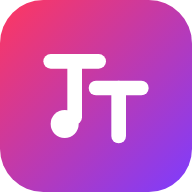
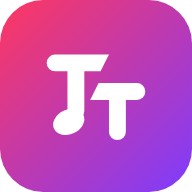
Add files via upload

Changed region(s): [[0.4062, 0.3438, 0.7812, 0.75], [0.2188, 0.2812, 0.5625, 0.7188]]

diff --git a/app.js b/app.js
@@ -8,11 +8,11 @@
 const TITLE = 'Tune Tune';
 const APP = 'TuneTune';
 const VER = '1.1';
-const LOGO_MARK = '<g fill="none" stroke="currentColor" stroke-linecap="round" stroke-linejoin="round"><path class="lg-a1" d="M16 24H52" stroke-width="11"/><path class="lg-a2" d="M34 24V66" stroke-width="11"/><path class="lg-b1" d="M50 44H84" stroke-width="11"/><path class="lg-b2" d="M67 44V80" stroke-width="11"/></g><circle class="lg-n" cx="26.5" cy="71" r="10.5" fill="currentColor"/>';
+const LOGO_MARK = '<g fill="currentColor"><path class="lg-a1" d="M18.5 18H60L53.5 31H18.5a6.5 6.5 0 0 1 0-13Z"/><rect class="lg-a2" x="28" y="24" width="13" height="44" rx="6.5"/><path class="lg-b1" d="M52 40H81.5a6.5 6.5 0 0 1 0 13H45.5Z"/><rect class="lg-b2" x="60" y="46" width="13" height="38" rx="6.5"/><g class="lg-n"><ellipse cx="29" cy="70" rx="12.5" ry="9.5" transform="rotate(-25 29 70)"/></g></g>';
 const logoSvg = (cls = '') => `<svg class="tt-logo ${cls}" viewBox="0 0 100 100" aria-hidden="true">${LOGO_MARK}</svg>`;
 // ✏ OPTIONAL — paste your music-server address between the quotes (e.g. 'https://tunetune.yourname.workers.dev')
 // so EVERYONE who opens your website gets clean, ad-free JioSaavn audio with no setup.
-const BUILT_IN_SERVER = 'https://tunetune.harshavarthan-e.workers.dev';
+const BUILT_IN_SERVER = '';
 // ✏ Links shown in Settings → More from H24 Creationz
 const PRODUCTS_URL = 'https://harshavarthanep.github.io/products/';
 const GITHUB_URL = 'https://github.com/harshavarthanep';
@@ -175,17 +175,18 @@ const I = {
   chevL: svg(P('M15 5l-7 7 7 7', 2.6)),
   chevR: svg(P('M9 5l7 7-7 7', 2.2)),
   plus: svg(P('M12 5v14M5 12h14', 2.4)),
+  pladd: svg(P('M4 6.5h11M4 11.5h11M4 16.5h7M18 13v7M14.5 16.5h7', 2)),
   minus: svg(P('M12 21a9 9 0 1 0 0-18 9 9 0 0 0 0 18zM8 12h8', 1.9)),
   download: svg(P('M12 4v11M7.5 10.5L12 15l4.5-4.5M5 19.5h14')),
   dlok: svg('<circle cx="12" cy="12" r="10"/><path d="M12 7v9M8 12.5l4 4 4-4" fill="none" stroke="#fff" stroke-width="2.2" stroke-linecap="round" stroke-linejoin="round"/>'),
   queue: svg(P('M4 6h16M4 11h16M4 16h9') + '<path d="M16 14v7l5-3.5z"/>'),
   playNext: svg(P('M4 6h10M4 11h10M4 16h6') + '<path d="M15 13v7l5.5-3.5z"/>'),
   lyrics: svg(P('M4 5h16a1 1 0 0 1 1 1v10a1 1 0 0 1-1 1H9.5L5 20.5V17H4a1 1 0 0 1-1-1V6a1 1 0 0 1 1-1zM8 9.5h8M8 12.5h5', 1.9)),
-  timer: svg(P('M12 21a8 8 0 1 0 0-16 8 8 0 0 0 0 16zM12 9v4.5l2.5 1.5M9.5 2.5h5')),
+  timer: `<svg class="ic tmr" viewBox="0 0 24 24" fill="none" stroke="currentColor" stroke-width="2" stroke-linecap="round" stroke-linejoin="round" aria-hidden="true"><circle cx="12" cy="13.5" r="8"/><path d="M9.5 2.8h5M12 2.8v2.7M18.6 6.9l1.2-1.2"/><path class="tm-hand" d="M12 13.5V9"/></svg>`,
   eq: svg(P('M5 3v18M12 3v18M19 3v18', 1.5) + '<circle cx="5" cy="15" r="2.6"/><circle cx="12" cy="8" r="2.6"/><circle cx="19" cy="13" r="2.6"/>'),
   share: svg(P('M12 3v12M8 7l4-4 4 4M7 10H6a1.5 1.5 0 0 0-1.5 1.5v8A1.5 1.5 0 0 0 6 21h12a1.5 1.5 0 0 0 1.5-1.5v-8A1.5 1.5 0 0 0 18 10h-1')),
   trash: svg(P('M4 7h16M9 7V4.5h6V7M6.5 7l1 13h9l1-13M10 11v5.5M14 11v5.5')),
-  gear: svg(P('M12 15.2a3.2 3.2 0 1 0 0-6.4 3.2 3.2 0 0 0 0 6.4z', 1.8) + P('M19.4 13.5l1.6 1.2-2 3.4-1.9-.7a7.6 7.6 0 0 1-2 1.2l-.3 2h-3.9l-.3-2a7.6 7.6 0 0 1-2-1.2l-1.9.7-2-3.4 1.6-1.2a7.5 7.5 0 0 1 0-3l-1.6-1.2 2-3.4 1.9.7a7.6 7.6 0 0 1 2-1.2l.3-2h3.9l.3 2a7.6 7.6 0 0 1 2 1.2l1.9-.7 2 3.4-1.6 1.2a7.5 7.5 0 0 1 0 3z', 1.8)),
+  gear: `<svg class="ic" viewBox="0 0 24 24" fill="none" stroke="currentColor" stroke-width="1.8" stroke-linejoin="round" aria-hidden="true"><path d="M10.3 2.6h3.4l.5 2.6a7.3 7.3 0 0 1 1.9 1.1l2.5-.9 1.7 2.9-2 1.7a7.4 7.4 0 0 1 0 2.2l2 1.7-1.7 2.9-2.5-.9a7.3 7.3 0 0 1-1.9 1.1l-.5 2.6h-3.4l-.5-2.6a7.3 7.3 0 0 1-1.9-1.1l-2.5.9-1.7-2.9 2-1.7a7.4 7.4 0 0 1 0-2.2l-2-1.7 1.7-2.9 2.5.9a7.3 7.3 0 0 1 1.9-1.1z"/><circle cx="12" cy="12" r="3"/></svg>`,
   music: svg(P('M9 18V6l11-2v12') + '<circle cx="6.5" cy="18" r="2.6"/><circle cx="17.5" cy="16" r="2.6"/>'),
   x: svg(P('M6 6l12 12M18 6L6 18', 2.6)),
   folder: svg(P('M3.5 7V18a1.5 1.5 0 0 0 1.5 1.5h14a1.5 1.5 0 0 0 1.5-1.5V9a1.5 1.5 0 0 0-1.5-1.5h-7L10 5H5A1.5 1.5 0 0 0 3.5 6.5z')),
@@ -1504,8 +1505,7 @@ function clickSound(kind) {
   } catch (e) { }
 }
 function feedback(kind = 'tap') { if (S.settings.haptics !== false) Haptic.tap(kind === 'done' ? 18 : kind === 'tick' ? 4 : 9); clickSound(kind); }
-let crownPos = new WeakMap(), crownAt = 0, crownEnd = 0;
-document.addEventListener('scroll', e => { if (!S.settings.crown) return; const el = e.target === document ? document.scrollingElement : e.target; if (!el || !el.classList) return; clearTimeout(crownEnd); crownEnd = setTimeout(() => { el.classList.remove('land'); void el.offsetWidth; el.classList.add('land'); feedback('tick'); setTimeout(() => el.classList.remove('land'), 420); }, 140); }, { passive: true, capture: true });
+let crownPos = new WeakMap(), crownAt = 0;
 document.addEventListener('visibilitychange', () => { if (!document.hidden && fbCtx && fbCtx.state !== 'running') fbCtx.resume().catch(() => { fbCtx = null; }); });
 document.addEventListener('scroll', e => {
   if (!S.settings.crown) return; const el = e.target === document ? document.scrollingElement : e.target; if (!el || !el.classList) return;
@@ -1633,6 +1633,8 @@ const Player = {
       this.loading = false; this.resumeTries = 0; this.failRun = 0; this.wantPlay = true; this.lastProgress = Date.now(); if (this.intrAt) { this.stopIntr(); }
       const hr = new Date().getHours();
       if ((hr >= 23 || hr < 4) && !this.sleepAt && !this.sleepEnd && S.lastNightTip !== dayKey() && S.settings.nightTip !== false && !document.hidden) { S.lastNightTip = dayKey(); save(); setTimeout(() => toast('Late night? Stop the music in 30 minutes', { label: 'Set', ms: 6000, fn: () => { try { Player.sleep(30); UI.timerBtn(); toast('Sleep timer: 30 minutes'); } catch (e) { } } }), 2500); }
+      if (this.seekWant != null && this.el !== Embed && Math.abs((this.el.currentTime || 0) - this.seekWant) > 1.5) { try { this.el.currentTime = this.seekWant; } catch (e) { } }
+      this.seekWant = null;
       try { this._seekOn = undefined; this.session(); this.seekBtns(!!(t && t.source === 'podcast')); } catch (e) { }
       if (t) { clearTimeout(this.metaT); this.metaT = setTimeout(() => { if (this.cur === t) { try { this.meta(t); } catch (e) { } } }, 600); }
       try { if ('mediaSession' in navigator) navigator.mediaSession.playbackState = 'playing'; } catch (e) { }
@@ -1856,7 +1858,7 @@ const Player = {
     }
     if (!src) return this.skipAfterFail(t);
     this.isBlob = blob;
-    const wantFx = !!S.settings.eqOn || Party.react();
+    const wantFx = (!!S.settings.eqOn && !IS_IOS) || Party.react();
     if (!blob && wantFx && (S.settings.proxy || SITE.server) && /saavncdn\.com/.test(src)) src = JSA.relays()[0].wrap(src);
     let host = ''; try { host = new URL(src, location.href).host; } catch (e) { }
     const fx = !!(wantFx && !t.live && this.via !== 'preview' && (blob || !this.badCors.has(host)));
@@ -1981,7 +1983,9 @@ const Player = {
   seek(s) {
     const t = this.cur; if (!t || t.live) return;
     if (!this.loaded) { this.resumeAt = Math.max(0, s); return this.load(true, this.resumeAt, true); }
-    const a = this.el; if (isFinite(a.duration)) a.currentTime = clamp(s, 0, Math.max(0, a.duration - 0.25));
+    const a = this.el; const to = isFinite(a.duration) ? clamp(s, 0, Math.max(0, a.duration - 0.25)) : Math.max(0, s);
+    this.seekWant = to; this.resumeAt = to; try { a.currentTime = to; } catch (e) { }
+    if (t.source === 'podcast') { try { (S.podProg || (S.podProg = {}))[t.id] = Math.floor(to); } catch (e) { } }
     UI.time();
   },
   playList(list, idx = 0, from = '', shuffle = null) {
@@ -2158,7 +2162,8 @@ const Player = {
     const a = this.el; this.stopIntr && this.stopIntr();
     if (!this.cur) return;
     if (!this.loaded || this.waitOnline) return this.toggle();
-    if (a !== Embed && (a.error || !a.currentSrc || a.networkState === 3)) return this.load(true, a.currentTime || this.resumeAt || 0, true);
+    if (a !== Embed && (a.error || !a.currentSrc || a.networkState === 3)) return this.load(true, this.seekWant != null ? this.seekWant : (a.currentTime || this.resumeAt || 0), true);
+    if (this.seekWant != null && a !== Embed) { try { a.currentTime = this.seekWant; } catch (e) { } }
     this.wantPlay = true; this.userPaused = false;
     try { const p = a.play(); if (p && p.catch) p.catch(err => { if (!(err && err.name === 'NotAllowedError') && this.cur) this.load(true, a.currentTime || this.resumeAt || 0, true); }); } catch (e) { }
     if (this.ctx && this.ctx.state !== 'running') this.ctx.resume().catch(() => { });
@@ -2264,7 +2269,9 @@ const UI = {
     const et = $('#np-eqt'); if (et) { const on = S.settings.eqOn && !IS_IOS && Player.cur && !Player.cur.live; const txt = on ? eqName() : ''; if (et.dataset.t !== txt + (Player.el === Player.fx)) { et.dataset.t = txt + (Player.el === Player.fx); et.innerHTML = on ? `${I.eq}${esc(txt)}` : ''; et.classList.toggle('na', on && Player.el !== Player.fx); et.title = on && Player.el !== Player.fx ? 'Equalizer isn’t available for this song' : 'Equalizer: ' + txt; } }
     const aq = $('#aqbox'); if (aq) { const k = (Player.cur && Player.cur.id) + '|' + Player.quality + '|' + Player.via + '|' + S.settings.eqOn; if (aq.dataset.k !== k) { aq.dataset.k = k; setHTML(aq, aqInner()); } }
   },
+  slp() { const sp = document.getElementById('np-slp'); if (!sp) return; const on = !!(Player.sleepAt || Player.sleepEnd); sp.classList.toggle('on', on); const b = document.getElementById('np-btimer'); if (b) b.classList.toggle('on', on); if (on) { const left = Player.sleepEnd ? 'End of song' : fmt(Math.max(0, (Player.sleepAt - Date.now()) / 1000)); const lb = sp.querySelector('span'); if (lb && lb.textContent !== left) lb.textContent = left; } },
   time() {
+    this.slp();
     const a = Player.el, t = Player.cur; if (!t) return;
     const cur = Player.loaded ? a.currentTime : Player.resumeAt;
     const dur = Player.loaded && isFinite(a.duration) && a.duration ? a.duration : (t.duration || 0);
@@ -2456,8 +2463,8 @@ const Party = {
       }
     } else if (style === 'waves') {
       for (let k = 0; k < 6; k++) {
-        g.beginPath(); const amp = H * (0.035 + L.mid * 0.22 + this.kick * 0.03) * (1 - k * 0.1), base = H * (0.22 + k * 0.12);
-        for (let x = 0; x <= W; x += 5) { const y = base + Math.sin(x / W * Math.PI * (2 + k * 0.6) + tt * (1.2 + k * 0.3)) * amp + Math.sin(x / W * 11 + tt * 2.4) * amp * (0.2 + L.high * 0.5); x ? g.lineTo(x, y) : g.moveTo(x, y); }
+        g.beginPath(); const amp = H * (0.04 + L.mid * 0.12 + this.kick * 0.035) * (1 - k * 0.08), base = H * (0.22 + k * 0.12);
+        for (let x = 0; x <= W; x += 4) { const u = x / W; const y = base + Math.sin(u * Math.PI * (1.6 + k * 0.35) + tt * (0.9 + k * 0.22)) * amp * (0.75 + 0.25 * Math.sin(u * Math.PI)); x ? g.lineTo(x, y) : g.moveTo(x, y); }
         g.strokeStyle = hsl(this.hue + k * 40, 95, 60, 0.35 + L.bass * 0.4); g.lineWidth = R * (0.004 + L.bass * 0.01); g.stroke();
       }
     } else if (style === 'lasers') {
@@ -2527,7 +2534,7 @@ function buildShell() {
     <div class="np-meta"><div class="np-tt"><div class="np-t" id="np-t"></div><span class="dlbadge" id="np-dl">${I.dlok}</span><div class="np-a" id="np-a" data-a="npartist"></div></div>
       <button class="np-ib" id="np-party" data-a="party" aria-label="Party Mode">${I.disco}</button><button class="np-ib" id="np-share" data-a="npshare" aria-label="Share">${I.share}</button><button class="np-ib" id="np-like" data-a="nplike" aria-label="Favorite">${I.heart}</button></div>
     <div class="scrub"><input class="rng" id="np-seek" type="range" min="0" max="1000" step="1" value="0" aria-label="Seek">
-      <div class="times"><span id="np-cur">0:00</span><span class="livepill">● LIVE</span><span class="qbadge" id="np-qb" data-a="aq" role="button" tabindex="0" aria-label="Audio quality"></span><button class="eqtag" id="np-eqt" data-a="eq" aria-label="Equalizer"></button><button class="dlpill" id="np-dlq" data-a="dlinfo" aria-label="Offline status">${I.offline}<span></span></button><button class="slpill" id="np-slp" data-a="sleep" aria-label="Sleep timer">${I.timer}<span></span></button><span id="np-rem">-0:00</span></div></div>
+      <div class="times"><span id="np-cur">0:00</span><span class="livepill">● LIVE</span><span class="qbadge" id="np-qb" data-a="aq" role="button" tabindex="0" aria-label="Audio quality"></span><button class="slpill" id="np-slp" data-a="sleep" aria-label="Sleep timer">${I.timer}<span></span></button><button class="eqtag" id="np-eqt" data-a="eq" aria-label="Equalizer"></button><button class="dlpill" id="np-dlq" data-a="dlinfo" aria-label="Offline status">${I.offline}<span></span></button><span id="np-rem">-0:00</span></div></div>
     <div class="ctrl">
       <button class="np-ib c-s" id="np-shuf" data-a="shuffle" aria-label="Shuffle">${I.shuffle}</button>
       <button class="np-ib c-k" data-a="skipb" aria-label="Skip back">${skipIcon(S.settings.podBack || 15, true)}</button>
@@ -2681,7 +2688,7 @@ function renderQueue() {
       <button class="qchip ${Player.shuffle ? 'on' : ''}" data-a="shuffle">${I.shuffle}Shuffle</button>
       <button class="qchip ${Player.repeat !== 'off' ? 'on' : ''}" data-a="repeat">${Player.repeat === 'one' ? I.repeat1 : I.repeat}Repeat</button>
       <button class="qchip ${S.settings.autoplay ? 'on' : ''}" data-a="autoplay">${I.infinity}Autoplay</button></div>
-    <div class="q-h"><div><b>Playing Next</b><small>${up.length ? plural(up.length, 'song') : 'Nothing queued'}${Player.from ? ' from ' + esc(Player.from) : ''}</small></div>${up.length ? `<div class="qbtns"><button class="qib" data-a="qsave" aria-label="Save as playlist" title="Save as playlist">${I.plus}</button><button class="qib" data-a="qclearask" aria-label="Clear Playing Next" title="Clear Playing Next">${I.trash}</button></div>` : ''}</div>
+    <div class="q-h"><div><b>Playing Next</b><small>${up.length ? plural(up.length, 'song') : 'Nothing queued'}${Player.from ? ' from ' + esc(Player.from) : ''}</small></div>${up.length ? `<div class="qbtns"><button class="qib" data-a="qsave" aria-label="Save as playlist" title="Save as playlist">${I.pladd}</button><button class="qib" data-a="qclearask" aria-label="Clear Playing Next" title="Clear Playing Next">${I.trash}</button></div>` : ''}</div>
     <div id="qlist">${up.map((t, k) => {
       const qi = Player.i + 1 + k;
       return `<div class="qrow qnext" data-q="${qi}"><img src="${esc(artOf(t))}" alt="" class="${t.live ? 'logo' : ''}" loading="lazy">
@@ -3050,7 +3057,7 @@ function langPicker(first) {
 const fmtDb = v => (v > 0 ? '+' : '') + (+v).toFixed(Number.isInteger(+v) ? 0 : 1);
 function eqStatus() {
   const s = S.settings;
-  if (IS_IOS && s.eqOn && Player.el === Player.fx) return ['ok', 'Active on this song. On iPhone the equalizer works while Tune Tune is open — music may pause when the screen locks.'];
+  if (IS_IOS) return ['off', 'iPhone and iPad mute sound processing when the screen locks, so the equalizer stays off there to keep music playing.'];
   if (!s.eqOn) return ['off', 'Turn it on to shape the sound.'];
   if (!Player.cur || !Player.loaded) return ['ok', 'Ready — it applies as soon as a song plays.'];
   if (Player.el === Embed) return ['warn', 'Not active on this song: it plays through YouTube’s player, which doesn’t allow sound changes.'];
@@ -3616,7 +3623,7 @@ function applyTheme() {
   const dark = s === 'dark' || (s === 'auto' && matchMedia('(prefers-color-scheme: dark)').matches);
   const r = document.documentElement; r.dataset.theme = dark ? 'dark' : 'light'; r.style.setProperty('--accent', S.settings.accent);
   const st = S.settings;
-  r.classList.toggle('still', !st.motion); r.classList.toggle('crown', !!st.crown); r.classList.toggle('nobg', !st.animBg); r.classList.toggle('nobadge', !st.badge);
+  r.classList.toggle('still', !st.motion); r.classList.toggle('nobg', !st.animBg); r.classList.toggle('nobadge', !st.badge);
   r.dataset.lyr = st.lyricsSize || 'm';
   r.style.setProperty('--zoom', String(+st.zoom || 1));
   const m = $('meta[name="theme-color"]'); if (m) m.setAttribute('content', dark ? '#000000' : '#ffffff');
@@ -3932,7 +3939,7 @@ async function quickPicks() {
 function renderHome(e, tok) {
   const stk = streak();
   const nm = (S.settings.name || '').trim();
-  let html = header('Home', { right: nbBtn('go', 'gear', 'Settings', 'data-v="settings"'), left: `<span class="home-logo">${logoSvg()}</span>` }) + `<p class="greet">${greeting()}${nm ? ', ' + esc(nm) : ''}${stk >= 2 ? ` <span class="streak" data-a="streakparty" role="button" tabindex="0" title="Days in a row you listened">🔥 ${stk}-day streak</span>` : ''}</p>`;
+  let html = header('Home', { right: nbBtn('go', 'gear', 'Settings', 'data-v="settings"'), left: `<span class="home-logo">${logoSvg()}</span>` }) + `<p class="greet">${greeting()}${nm ? ', ' + esc(nm) : ''}${stk >= 2 ? ` <span class="streak" data-a="streaktap" role="button" tabindex="0" title="Days in a row you listened">🔥 ${stk}-day streak</span>` : ''}</p>`;
   const standalone = matchMedia('(display-mode: standalone)').matches || navigator.standalone;
   if (!standalone && !S.noInstall && Object.keys(S.stats.plays || {}).length >= 3 && (deferredInstall || IS_IOS)) html += `<div class="nudge"><div class="nudge-ic">${I.music}</div><div class="nudge-t"><b>Get the Tune Tune app</b><span>${IS_IOS ? 'Tap Share, then “Add to Home Screen”' : 'Opens instantly and plays from your lock screen'}</span></div>${IS_IOS ? '' : '<button class="fb pri" data-a="install">Install</button>'}<button class="nudge-x" data-a="noinstall" aria-label="Dismiss">${I.x}</button></div>`;
   if (!navigator.onLine) {
@@ -3943,7 +3950,7 @@ function renderHome(e, tok) {
   }
   setTimeout(warmLangs, 2500);
   const sv = (S.cached || []).filter(t => S.settings.mixPods || t.source !== 'podcast');
-  if (S.settings.savedCard !== false && sv.length >= 3) html += `<div class="saved-card"><span class="sc-ic">${I.offline}</span><div class="sc-arts">${sv.slice(0, 3).map(t => `<img src="${esc(artOf(t))}" alt="">`).join('')}</div><div class="sc-t" data-a="go" data-v="coll" data-k="saved" role="button" tabindex="0"><b>Ready offline ›</b><span>Your last ${plural(sv.length, 'song')} — plays without internet</span></div><button class="np-ib" data-a="savedplay" aria-label="Play in order">${I.play}</button><button class="np-ib" data-a="savedshuf" aria-label="Shuffle">${I.shuffle}</button></div>`;
+  if (S.settings.savedCard !== false && sv.length >= 3) html += `<div class="saved-card"><div class="sc-arts">${sv.slice(0, 3).map(t => `<img src="${esc(artOf(t))}" alt="">`).join('')}</div><div class="sc-t" data-a="go" data-v="coll" data-k="saved" role="button" tabindex="0"><b>Ready offline ›</b><span>Your last ${plural(sv.length, 'song')} — plays without internet</span></div><button class="np-ib" data-a="savedplay" aria-label="Play in order">${I.play}</button><button class="np-ib" data-a="savedshuf" aria-label="Shuffle">${I.shuffle}</button></div>`;
   const sug = langSuggest(); if (sug) html += `<div class="lang-sug"><span>You’ve been listening to a lot of <b>${esc(sug)}</b> music</span><button class="fb pri" data-a="addlang" data-l="${esc(sug)}">Add ${esc(sug)}</button><button class="nudge-x" data-a="nolang" data-l="${esc(sug)}" aria-label="Dismiss">${I.x}</button></div>`;
   const langs = myLangs();
   html += `<div class="chips pg">${langs.map(L => `<button class="chip" data-a="lang" data-l="${esc(L)}">${esc(L)}</button>`).join('')}<button class="chip ghost" data-a="langs">${I.plus}Languages</button></div>`;
@@ -4297,14 +4304,14 @@ function renderSettings() {
       sLi({ icon: 'download', color: '#0a84ff', label: 'Preload next song', hint: 'No gaps or buffering between songs', ctl: sSw('preload', s.preload) }) +
       (IS_IOS ? '' : `<div class="li"><div class="lb"><span class="lx">Crossfade<small class="lh">Blend the end of one song into the next</small></span><span class="lv" id="v-crossfade">${+s.crossfade ? s.crossfade + ' s' : 'Off'}</span></div></div><div class="pad"><input class="slider" type="range" min="0" max="12" step="1" value="${+s.crossfade || 0}" data-set="crossfade" style="--p:${((+s.crossfade || 0) / 12) * 100}%" aria-label="Crossfade seconds"></div>`)) +
     sGrp('Playback',
-      sLi({ icon: 'eq', color: '#ff9f0a', label: 'Equalizer', value: s.eqOn ? eqName() : 'Off', a: 'eq', chev: true }) +
+      sLi({ icon: 'eq', color: '#ff9f0a', label: 'Equalizer', value: IS_IOS ? 'Not on iPhone' : s.eqOn ? eqName() : 'Off', a: 'eq', chev: true }) +
       (!IS_IOS && eqPins().length ? `<div class="pad"><div class="chips eqpins">${eqPins().filter(n => eqFind(n)).map(n => `<button class="chip ${s.eqOn && eqName() === n ? 'on' : ''}" data-a="eqp" data-n="${esc(n)}">${I.pin}${esc(n)}</button>`).join('')}</div></div>` : '') +
       sLi({ icon: 'infinity', color: '#30d158', label: 'Autoplay similar songs', ctl: sSw('autoplay', s.autoplay) }) +
       sLi({ label: 'Resume after calls', hint: 'Music continues by itself when a phone call or alarm ends', ctl: sSw('autoResume', S.settings.autoResume !== false) }) +
       sLi({ label: 'Mix podcasts with songs', hint: 'Off keeps podcasts and songs in separate queues', ctl: sSw('mixPods', !!S.settings.mixPods) }) +
       (IS_CAP || window.ttDesktop ? sLi({ label: 'Remind me after 3 days away', hint: 'A gentle notification if you haven’t listened for a while', ctl: sSw('remind3', S.settings.remind3 !== false) }) + '' : '') +
       sLi({ label: 'Tap sounds', hint: 'Soft musical sounds when you tap, like, add, delete, play or pause', ctl: sSw('tapSound', !!S.settings.tapSound) }) +
-      sLi({ label: 'Haptic scroll', hint: 'Lists glide and settle on each item with a gentle tick and bump', ctl: sSw('crown', !!S.settings.crown) }) +
+      sLi({ label: 'Haptic scroll', hint: 'A soft tick as you scroll through lists', ctl: sSw('crown', !!S.settings.crown) }) +
       sLi({ label: 'Car Mode in landscape', hint: 'Phones switch to big Car Mode controls when turned sideways', ctl: sSw('landCar', S.settings.landCar) }) +
       sLi({ icon: 'timer', color: '#5e5ce6', label: 'Sleep Timer', value: timerVal, a: 'sleep', chev: true }) +
       sLi({ icon: 'speed', color: '#0a84ff', label: 'Music speed', value: Player.rate + '×', a: 'speed', chev: true }) +
@@ -4553,19 +4560,20 @@ const Actions = {
   lyrmode(el, d) { S.settings.lyrMode = d.m; save(); renderLyrics(); if (d.m === 'en') lyrTranslate(); },
   skipb2() { Player.seek(Player.el.currentTime - skipSecs(-1)); }, skipf2() { Player.seek(Player.el.currentTime + skipSecs(1)); },
   keys() { showKeys(); },
-  streakparty() {
+  streaktap() { const now = Date.now(); if (now - (this._stT || 0) < 380) { this._stT = 0; Actions.streakdisco(); } else this._stT = now; },
+  streakdisco() {
     if (document.getElementById('confetti')) return; feedback('done');
     const c = document.createElement('canvas'); c.id = 'confetti'; document.body.appendChild(c);
     const g = c.getContext && c.getContext('2d'); if (!g) { c.remove(); return; }
-    const W = c.width = innerWidth * (devicePixelRatio || 1), H = c.height = innerHeight * (devicePixelRatio || 1), k = devicePixelRatio || 1;
-    const cols = ['#ff375f', '#ff9f0a', '#ffd60a', '#30d158', '#0a84ff', '#bf5af2', '#fff'];
-    const parts = []; for (const ox of [0.08, 0.92]) for (let i = 0; i < 90; i++) { const a = (ox < 0.5 ? -60 : -120) * Math.PI / 180 + (Math.random() - 0.5) * 0.9, sp = (9 + Math.random() * 11) * k; parts.push({ x: W * ox, y: H * 0.95, vx: Math.cos(a) * sp, vy: Math.sin(a) * sp, r: (3 + Math.random() * 5) * k, c: cols[i % cols.length], rot: Math.random() * 6, vr: (Math.random() - 0.5) * 0.4, sh: i % 3 }); }
-    let t0 = performance.now(); document.body.classList.add('partying');
-    const step = now => { const t = (now - t0) / 1000; g.clearRect(0, 0, W, H);
-      g.globalAlpha = Math.max(0, 0.35 - t * 0.1); for (let i = 0; i < 5; i++) { const x = W / 2 + Math.cos(t * 1.6 + i * 1.26) * W * 0.4, y = H * 0.35 + Math.sin(t * 2 + i) * H * 0.2, gr = g.createRadialGradient(x, y, 0, x, y, W * 0.45); gr.addColorStop(0, cols[i]); gr.addColorStop(1, 'transparent'); g.fillStyle = gr; g.fillRect(0, 0, W, H); }
-      g.globalAlpha = 1; for (const p of parts) { p.vy += 0.32 * k; p.vx *= 0.99; p.x += p.vx; p.y += p.vy; p.rot += p.vr; g.save(); g.translate(p.x, p.y); g.rotate(p.rot); g.fillStyle = p.c; if (p.sh === 0) g.fillRect(-p.r, -p.r / 2, p.r * 2, p.r); else { g.beginPath(); g.arc(0, 0, p.r * 0.7, 0, 7); g.fill(); } g.restore(); }
-      if (t < 3.4) requestAnimationFrame(step); else { c.remove(); document.body.classList.remove('partying'); } };
-    requestAnimationFrame(step); toast('🔥 Keep the streak going!');
+    const k = devicePixelRatio || 1, W = c.width = innerWidth * k, H = c.height = innerHeight * k;
+    const cols = ['#ff375f', '#ff9f0a', '#30d158', '#0a84ff', '#bf5af2', '#64d2ff'];
+    const t0 = performance.now(); document.body.classList.add('partying');
+    const step = now => { const t = (now - t0) / 1000, fade = t < 0.4 ? t / 0.4 : t > 2.4 ? Math.max(0, (3 - t) / 0.6) : 1; g.clearRect(0, 0, W, H); g.globalCompositeOperation = 'lighter';
+      for (let i = 0; i < 6; i++) { const a = t * (0.9 + i * 0.12) + i * 1.05, x = W / 2 + Math.cos(a) * W * 0.38, y = H * 0.42 + Math.sin(a * 1.3) * H * 0.3, r = Math.max(W, H) * (0.32 + 0.08 * Math.sin(t * 4 + i)), gr = g.createRadialGradient(x, y, 0, x, y, r);
+        gr.addColorStop(0, cols[i] + '66'); gr.addColorStop(1, 'transparent'); g.globalAlpha = 0.55 * fade; g.fillStyle = gr; g.fillRect(0, 0, W, H); }
+      g.globalAlpha = 0.35 * fade; for (let i = 0; i < 14; i++) { const a = t * 0.6 + i * 0.45; g.strokeStyle = cols[i % 6]; g.lineWidth = 3 * k; g.beginPath(); g.moveTo(W / 2, -10); g.lineTo(W / 2 + Math.cos(a) * W, H * 0.9 + Math.sin(a) * H * 0.2); g.stroke(); }
+      if (t < 3) requestAnimationFrame(step); else { c.remove(); document.body.classList.remove('partying'); } };
+    requestAnimationFrame(step);
   },
   dlinfo() {
     const t = Player.cur; if (!t) return; const dl = isDl(t.id);

diff --git a/styles.css b/styles.css
@@ -1403,11 +1403,6 @@ html{-webkit-text-size-adjust:100%;text-size-adjust:100%}
   .dv-art{--A:min(90cqw,90cqh)}
 }
 /* crown-style scrolling (Settings): lists settle on each item */
-html.crown .hs,html.crown .cg{scroll-snap-type:x mandatory}
-html.crown .hs > *,html.crown .cg > *{scroll-snap-align:start}
-html.crown #view{scroll-snap-type:y proximity}
-html.crown #view .row,html.crown .np-panel .qrow{scroll-snap-align:start}
-html.crown .np-panel{scroll-snap-type:y proximity}
 /* Ready offline card: the text opens the list */
 .saved-card .sc-t{cursor:pointer}
 
@@ -1474,9 +1469,6 @@ html,body{touch-action:manipulation}
 .tab.on .ic{animation:tabIn .38s cubic-bezier(.3,1.6,.5,1)}
 @keyframes tabIn{0%{transform:scale(.8)}60%{transform:scale(1.12)}100%{transform:scale(1)}}
 /* haptic scroll: lists glide, then settle with a small bump */
-html.crown #view,html.crown .np-panel,html.crown .hs{scroll-behavior:smooth}
-.land{animation:land .38s cubic-bezier(.3,1.5,.5,1)}
-@keyframes land{0%{transform:translateY(0)}35%{transform:translateY(-3px)}100%{transform:none}}
 /* ready offline card */
 .sc-ic{flex:none;width:34px;height:34px;border-radius:10px;display:grid;place-items:center;color:#fff;background:linear-gradient(135deg,var(--accent),#bf5af2)}
 .sc-ic .ic{width:19px;height:19px}
@@ -1490,3 +1482,39 @@ body.partying .greet .streak{animation:heartPop .6s infinite}
 .qbtns{align-items:center}
 .qib{flex:none;padding:0}
 .q-h{align-items:center}
+
+/* ================= v1.1: scrolling, logo animation, polish ================= */
+/* phones: while lyrics or the queue are open, the hidden album art can never catch your finger */
+@media (max-width:899px),(orientation:landscape) and (max-height:560px){
+  #np.p-lyr .np-art,#np.p-q .np-art,#np.p-lyr .np-art *,#np.p-q .np-art *{visibility:hidden!important;pointer-events:none!important}
+  .np-panel,.np-panel *{touch-action:pan-y}
+  #np-q .qh,#np-q .qh *{touch-action:none}
+}
+/* logo opening: pieces slide and drop into place, the note pops */
+.sp-mark .lg-a1,.sp-mark .lg-a2,.sp-mark .lg-b1,.sp-mark .lg-b2,.sp-mark .lg-n{transform-box:fill-box;stroke-dasharray:none;stroke-dashoffset:0}
+.sp-mark .lg-a1{transform:translateX(-40px);opacity:0;animation:lgIn .36s .04s cubic-bezier(.2,.9,.3,1) forwards}
+.sp-mark .lg-b1{transform:translateX(40px);opacity:0;animation:lgIn .36s .12s cubic-bezier(.2,.9,.3,1) forwards}
+.sp-mark .lg-a2{transform-origin:50% 0;transform:scaleY(0);animation:lgDrop .3s .26s cubic-bezier(.3,1.3,.5,1) forwards}
+.sp-mark .lg-b2{transform-origin:50% 0;transform:scaleY(0);animation:lgDrop .3s .34s cubic-bezier(.3,1.3,.5,1) forwards}
+.sp-mark .lg-n{transform-origin:50% 50%;transform:scale(0);animation:lgPop .4s .5s cubic-bezier(.3,1.8,.5,1) forwards}
+@keyframes lgIn{to{transform:none;opacity:1}}
+@keyframes lgDrop{to{transform:none}}
+/* timer: only the hand turns */
+.ic.tmr .tm-hand{transform-box:view-box;transform-origin:12px 13.5px}
+.on .ic.tmr .tm-hand,.slpill.on .ic.tmr .tm-hand{animation:tmHand 4s linear infinite}
+#np-btimer.on .ic,.slpill.on .ic,#dv-sleep.on .ic{animation:none}
+@keyframes tmHand{to{transform:rotate(360deg)}}
+/* no shadow behind the album art */
+#np #np-img,#np .np-art .dk,#np .np-art img{box-shadow:none!important}
+/* bigger ⋯ menu on desktop */
+@media (min-width:900px){#np .np-top .np-ib,#np [data-a="npmore"]{width:44px;height:44px}#np [data-a="npmore"] .ic{width:28px;height:28px}}
+/* landscape phones: album art sized to fit comfortably */
+@media (orientation:landscape) and (max-height:560px){
+  #np .np-art{--S:min(32vw,calc(100vh - var(--sat) - var(--sabx) - 70px));--D:calc(50cqw - min(32vw,calc(100vh - var(--sat) - var(--sabx) - 70px)) * .3)}
+}
+/* offline pill & icons in the accent colour */
+.dlpill.auto .ic{color:var(--accent)}
+.dlpill .ic{color:#1ed760}
+.slpill{order:0}
+/* queue action buttons: clean icons, centred */
+.qib .ic{width:19px;height:19px;stroke-width:2}
